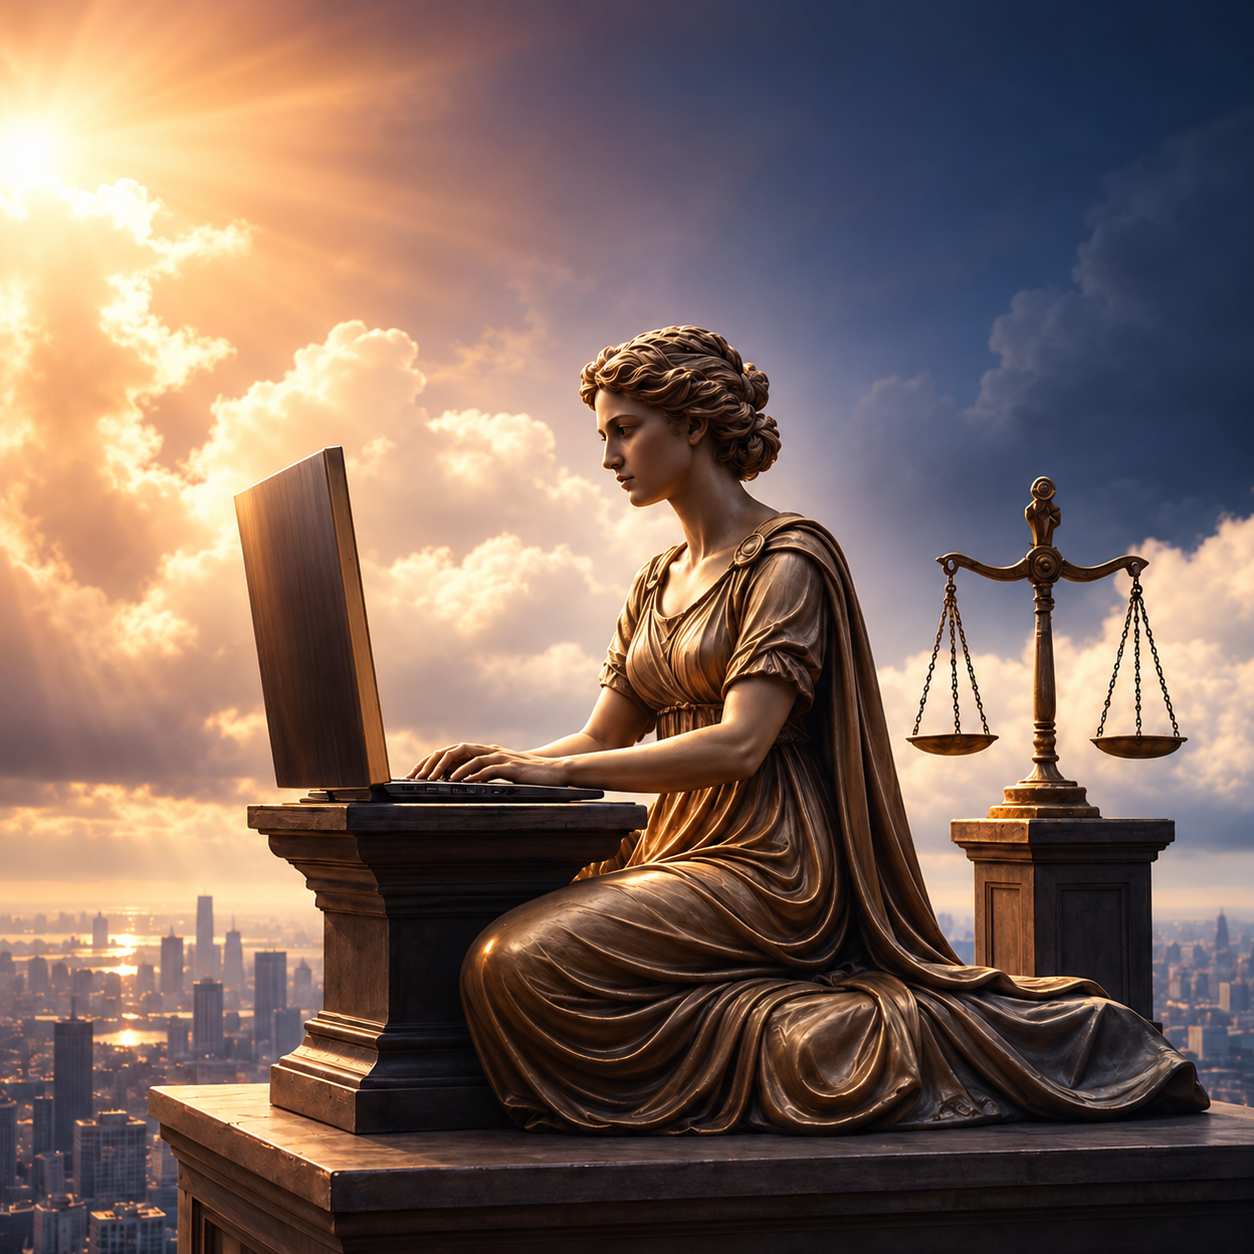
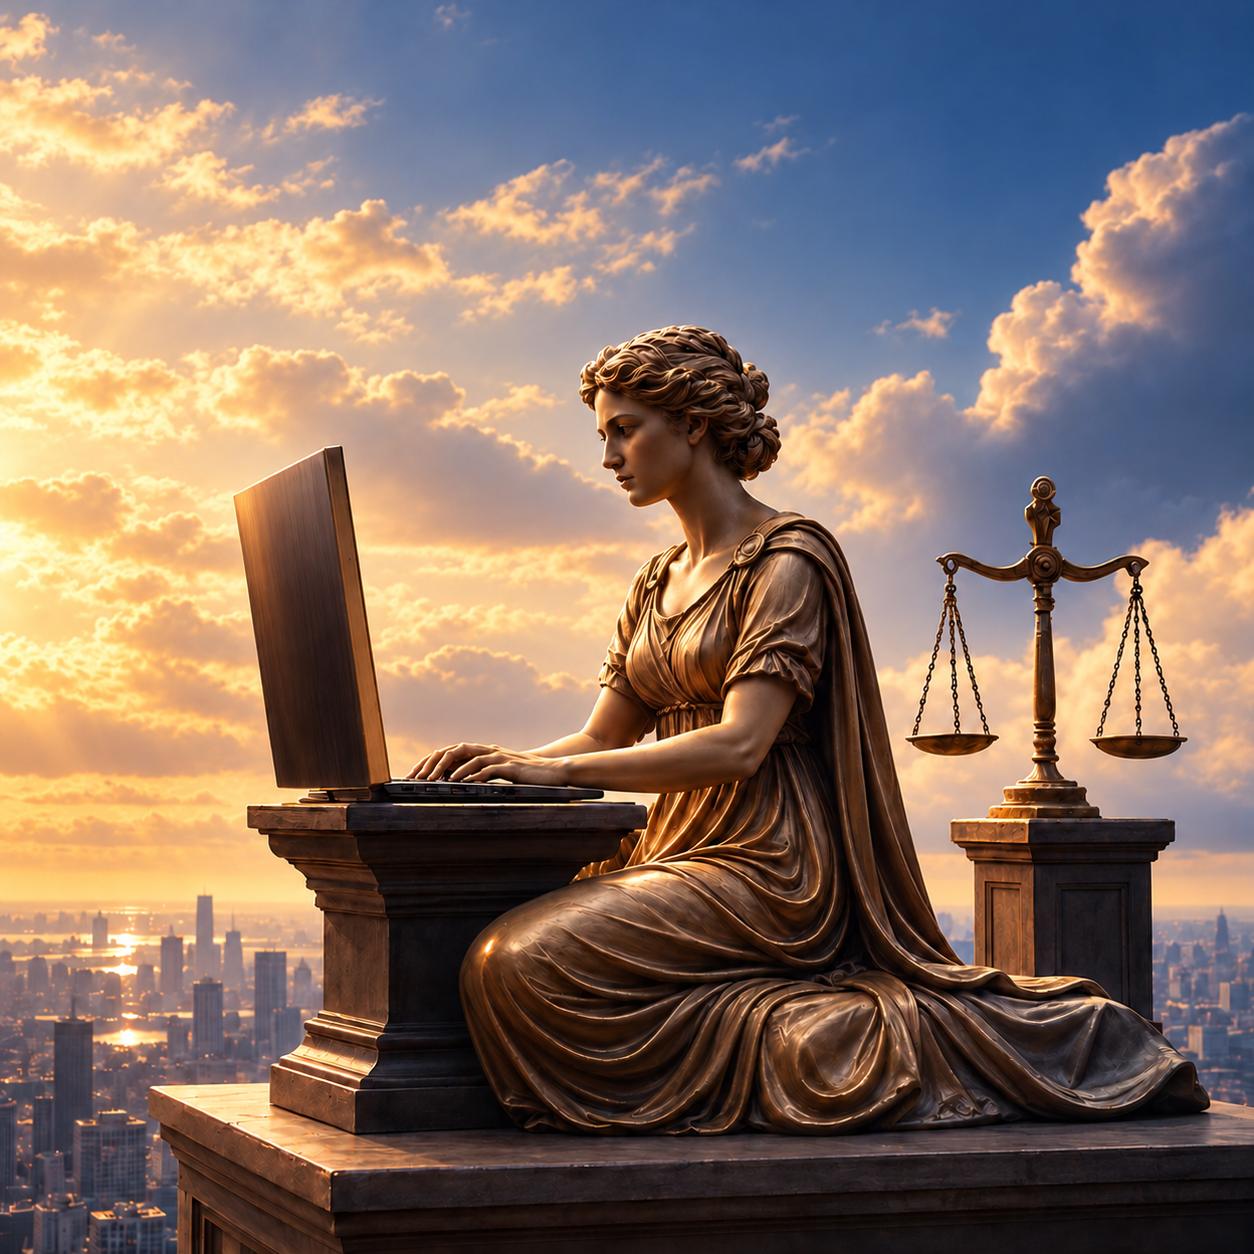
new images

diff --git a/research.htm b/research.htm
@@ -1103,7 +1103,7 @@ We investigate and analyze the influence of emerging technology laws on modern c
   </div>
 
   <div class="col-md-4 paragraph paragraph--type--text paragraph--view-mode--default">
-    <img class="media--border" src="images/research.jpeg" width="80%" height="80%" style="margin-bottom:20px; margin-top:20px;">
+    <img class="media--border" src="images/logo-turing.png" width="90%" height="90%" style="margin-bottom:20px; margin-top:20px;">
   </div>
   
 </div>
@@ -1137,7 +1137,6 @@ We investigate and analyze the influence of emerging technology laws on modern c
     <div class="clearfix text-formatted field field--name-field-text-body field--type-text-long field--label-hidden field__item">
 
     <blockquote class="blockquote--center"></blockquote>
-    <p style="color:gray;font-size:10px;">Image courtesy of Javierlorco YT, created using <a href="https://playground.com/post/creates-an-image-about-legal-aspects-of-software-computation-cltjjog7t032zs601nncw3jyg" style="color: gray; text-decoration: none; border-bottom: none;">Playground AI</a></p>
 
  	</div>
     </div>
